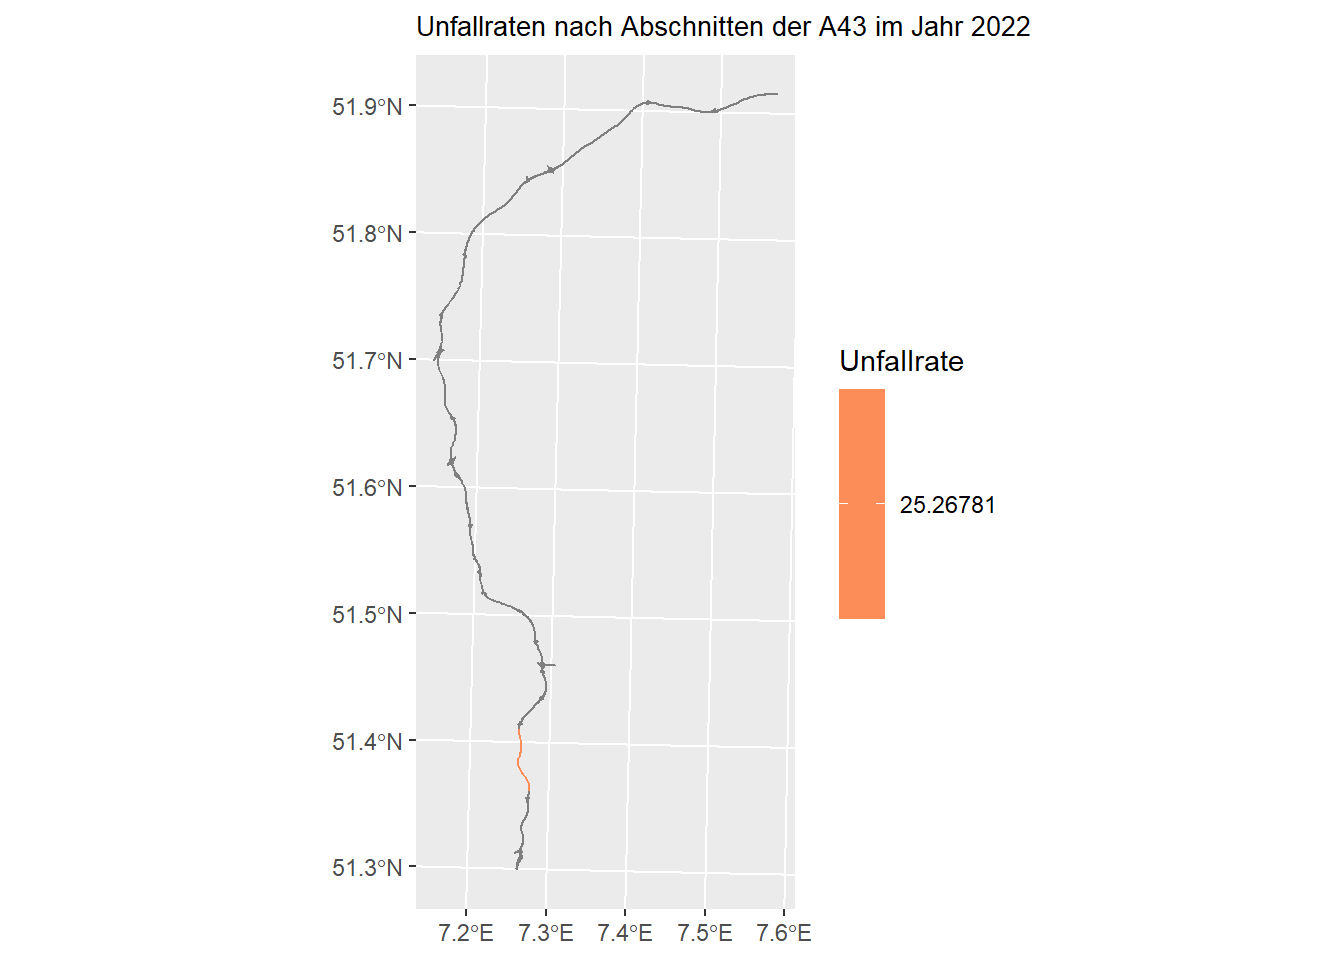
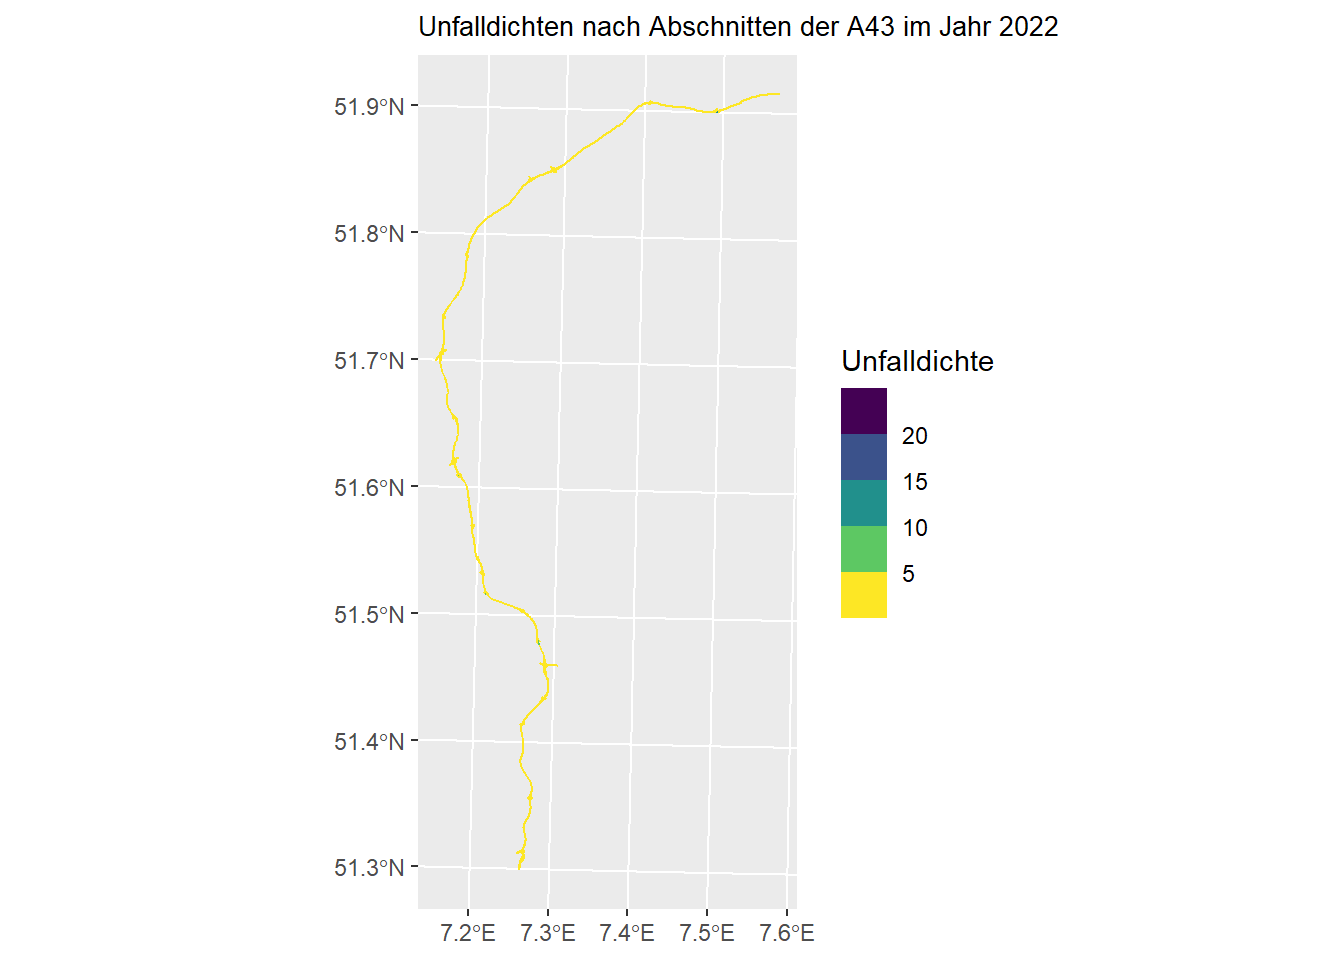
UR und UD Formel angepasst

diff --git a/output/book/sicherheitsanalyse.html b/output/book/sicherheitsanalyse.html
@@ -400,39 +400,43 @@ pre > code.sourceCode > span > a:first-child::before { text-decoration: underlin
 <span id="cb22-3"><a href="#cb22-3" aria-hidden="true" tabindex="-1"></a>    <span class="fu">select</span>(DZ_Nr, nearest_autobahn_id, DTV_Kfz_MobisSo_Q, <span class="sc">!</span>geometry)</span></code><button title="In die Zwischenablage kopieren" class="code-copy-button"><i class="bi"></i></button></pre></div>
 </div>
 <p><strong>TO-DO</strong>: Sinnhaftigkeit klären</p>
+<p><em>Variable für Anzahl der Jahre festlegen</em></p>
 <div class="cell">
-<div class="sourceCode cell-code" id="cb23"><pre class="sourceCode r code-with-copy"><code class="sourceCode r"><span id="cb23-1"><a href="#cb23-1" aria-hidden="true" tabindex="-1"></a>a43_2 <span class="ot">=</span> a43 <span class="sc">|&gt;</span> </span>
-<span id="cb23-2"><a href="#cb23-2" aria-hidden="true" tabindex="-1"></a>    <span class="fu">left_join</span>(d_Jawe_sf2, <span class="at">by =</span> <span class="fu">c</span>(<span class="st">"rownumber"</span> <span class="ot">=</span> <span class="st">"nearest_autobahn_id"</span>)) <span class="sc">|&gt;</span></span>
-<span id="cb23-3"><a href="#cb23-3" aria-hidden="true" tabindex="-1"></a>  <span class="fu">mutate</span>(<span class="at">UR =</span> (<span class="dv">10</span><span class="sc">^</span><span class="dv">6</span><span class="sc">*</span>Anzahl_U_G)<span class="sc">/</span> (DTV_Kfz_MobisSo_Q <span class="sc">*</span> Sk_Laenge_km), <span class="at">UD =</span> (Anzahl_U_G)<span class="sc">/</span>(Sk_Laenge_km))</span></code><button title="In die Zwischenablage kopieren" class="code-copy-button"><i class="bi"></i></button></pre></div>
+<div class="sourceCode cell-code" id="cb23"><pre class="sourceCode r code-with-copy"><code class="sourceCode r"><span id="cb23-1"><a href="#cb23-1" aria-hidden="true" tabindex="-1"></a>t <span class="ot">=</span> <span class="dv">1</span></span></code><button title="In die Zwischenablage kopieren" class="code-copy-button"><i class="bi"></i></button></pre></div>
+</div>
+<div class="cell">
+<div class="sourceCode cell-code" id="cb24"><pre class="sourceCode r code-with-copy"><code class="sourceCode r"><span id="cb24-1"><a href="#cb24-1" aria-hidden="true" tabindex="-1"></a>a43_2 <span class="ot">=</span> a43 <span class="sc">|&gt;</span> </span>
+<span id="cb24-2"><a href="#cb24-2" aria-hidden="true" tabindex="-1"></a>    <span class="fu">left_join</span>(d_Jawe_sf2, <span class="at">by =</span> <span class="fu">c</span>(<span class="st">"rownumber"</span> <span class="ot">=</span> <span class="st">"nearest_autobahn_id"</span>)) <span class="sc">|&gt;</span></span>
+<span id="cb24-3"><a href="#cb24-3" aria-hidden="true" tabindex="-1"></a>  <span class="fu">mutate</span>(<span class="at">UR =</span> (<span class="dv">10</span><span class="sc">^</span><span class="dv">6</span><span class="sc">*</span>Anzahl_U_G)<span class="sc">/</span> (<span class="dv">365</span><span class="sc">*</span>DTV_Kfz_MobisSo_Q <span class="sc">*</span> Sk_Laenge_km<span class="sc">*</span> t), <span class="at">UD =</span> (Anzahl_U_G)<span class="sc">/</span>(Sk_Laenge_km))</span></code><button title="In die Zwischenablage kopieren" class="code-copy-button"><i class="bi"></i></button></pre></div>
 </div>
 <p><em>Unfalldichte Plot</em></p>
 <div class="cell">
-<div class="sourceCode cell-code" id="cb24"><pre class="sourceCode r code-with-copy"><code class="sourceCode r"><span id="cb24-1"><a href="#cb24-1" aria-hidden="true" tabindex="-1"></a><span class="fu">ggplot</span> () <span class="sc">+</span></span>
-<span id="cb24-2"><a href="#cb24-2" aria-hidden="true" tabindex="-1"></a>  <span class="fu">geom_sf</span>(<span class="at">data =</span> a43_2, <span class="at">size =</span> <span class="dv">2</span>, <span class="at">mapping =</span> <span class="fu">aes</span>(<span class="at">color =</span> UD)) <span class="sc">+</span></span>
-<span id="cb24-3"><a href="#cb24-3" aria-hidden="true" tabindex="-1"></a>  <span class="fu">scale_color_viridis_b</span>(<span class="at">direction =</span> <span class="sc">-</span><span class="dv">1</span>) <span class="sc">+</span></span>
-<span id="cb24-4"><a href="#cb24-4" aria-hidden="true" tabindex="-1"></a>  <span class="fu">labs</span>(<span class="at">title =</span> <span class="st">"Unfalldichten nach Abschnitten der A43 im Jahr 2022"</span>,</span>
-<span id="cb24-5"><a href="#cb24-5" aria-hidden="true" tabindex="-1"></a>       <span class="at">color =</span> <span class="st">"Unfalldichte"</span>) <span class="sc">+</span></span>
-<span id="cb24-6"><a href="#cb24-6" aria-hidden="true" tabindex="-1"></a> <span class="fu">theme</span>(<span class="at">plot.title =</span> <span class="fu">element_text</span>(<span class="at">size=</span><span class="dv">10</span>))</span></code><button title="In die Zwischenablage kopieren" class="code-copy-button"><i class="bi"></i></button></pre></div>
+<div class="sourceCode cell-code" id="cb25"><pre class="sourceCode r code-with-copy"><code class="sourceCode r"><span id="cb25-1"><a href="#cb25-1" aria-hidden="true" tabindex="-1"></a><span class="fu">ggplot</span> () <span class="sc">+</span></span>
+<span id="cb25-2"><a href="#cb25-2" aria-hidden="true" tabindex="-1"></a>  <span class="fu">geom_sf</span>(<span class="at">data =</span> a43_2, <span class="at">size =</span> <span class="dv">2</span>, <span class="at">mapping =</span> <span class="fu">aes</span>(<span class="at">color =</span> UD)) <span class="sc">+</span></span>
+<span id="cb25-3"><a href="#cb25-3" aria-hidden="true" tabindex="-1"></a>  <span class="fu">scale_color_viridis_b</span>(<span class="at">direction =</span> <span class="sc">-</span><span class="dv">1</span>) <span class="sc">+</span></span>
+<span id="cb25-4"><a href="#cb25-4" aria-hidden="true" tabindex="-1"></a>  <span class="fu">labs</span>(<span class="at">title =</span> <span class="st">"Unfalldichten nach Abschnitten der A43 im Jahr 2022"</span>,</span>
+<span id="cb25-5"><a href="#cb25-5" aria-hidden="true" tabindex="-1"></a>       <span class="at">color =</span> <span class="st">"Unfalldichte"</span>) <span class="sc">+</span></span>
+<span id="cb25-6"><a href="#cb25-6" aria-hidden="true" tabindex="-1"></a> <span class="fu">theme</span>(<span class="at">plot.title =</span> <span class="fu">element_text</span>(<span class="at">size=</span><span class="dv">10</span>))</span></code><button title="In die Zwischenablage kopieren" class="code-copy-button"><i class="bi"></i></button></pre></div>
 <div class="cell-output-display">
 <div>
 <figure class="figure">
-<p><img src="sicherheitsanalyse_files/figure-html/unnamed-chunk-25-1.png" class="img-fluid figure-img" width="672"></p>
+<p><img src="sicherheitsanalyse_files/figure-html/unnamed-chunk-26-1.png" class="img-fluid figure-img" width="672"></p>
 </figure>
 </div>
 </div>
 </div>
 <p><em>Unfallrate Plot</em></p>
 <div class="cell">
-<div class="sourceCode cell-code" id="cb25"><pre class="sourceCode r code-with-copy"><code class="sourceCode r"><span id="cb25-1"><a href="#cb25-1" aria-hidden="true" tabindex="-1"></a><span class="fu">ggplot</span> () <span class="sc">+</span></span>
-<span id="cb25-2"><a href="#cb25-2" aria-hidden="true" tabindex="-1"></a>  <span class="fu">geom_sf</span>(<span class="at">data =</span> a43_2, <span class="at">size =</span> <span class="dv">2</span>, <span class="at">mapping =</span> <span class="fu">aes</span>(<span class="at">color =</span> UR)) <span class="sc">+</span></span>
-<span id="cb25-3"><a href="#cb25-3" aria-hidden="true" tabindex="-1"></a>  <span class="fu">scale_color_distiller</span>(<span class="at">palette =</span> <span class="dv">8</span> , <span class="at">direction =</span> <span class="dv">1</span>) <span class="sc">+</span></span>
-<span id="cb25-4"><a href="#cb25-4" aria-hidden="true" tabindex="-1"></a>  <span class="fu">labs</span>(<span class="at">title =</span> <span class="st">"Unfallraten nach Abschnitten der A43 im Jahr 2022"</span>,</span>
-<span id="cb25-5"><a href="#cb25-5" aria-hidden="true" tabindex="-1"></a>       <span class="at">color =</span> <span class="st">"Unfallrate"</span>) <span class="sc">+</span></span>
-<span id="cb25-6"><a href="#cb25-6" aria-hidden="true" tabindex="-1"></a> <span class="fu">theme</span>(<span class="at">plot.title =</span> <span class="fu">element_text</span>(<span class="at">size=</span><span class="dv">10</span>))</span></code><button title="In die Zwischenablage kopieren" class="code-copy-button"><i class="bi"></i></button></pre></div>
+<div class="sourceCode cell-code" id="cb26"><pre class="sourceCode r code-with-copy"><code class="sourceCode r"><span id="cb26-1"><a href="#cb26-1" aria-hidden="true" tabindex="-1"></a><span class="fu">ggplot</span> () <span class="sc">+</span></span>
+<span id="cb26-2"><a href="#cb26-2" aria-hidden="true" tabindex="-1"></a>  <span class="fu">geom_sf</span>(<span class="at">data =</span> a43_2, <span class="at">size =</span> <span class="dv">2</span>, <span class="at">mapping =</span> <span class="fu">aes</span>(<span class="at">color =</span> UR)) <span class="sc">+</span></span>
+<span id="cb26-3"><a href="#cb26-3" aria-hidden="true" tabindex="-1"></a>  <span class="fu">scale_color_distiller</span>(<span class="at">palette =</span> <span class="dv">8</span> , <span class="at">direction =</span> <span class="dv">1</span>) <span class="sc">+</span></span>
+<span id="cb26-4"><a href="#cb26-4" aria-hidden="true" tabindex="-1"></a>  <span class="fu">labs</span>(<span class="at">title =</span> <span class="st">"Unfallraten nach Abschnitten der A43 im Jahr 2022"</span>,</span>
+<span id="cb26-5"><a href="#cb26-5" aria-hidden="true" tabindex="-1"></a>       <span class="at">color =</span> <span class="st">"Unfallrate"</span>) <span class="sc">+</span></span>
+<span id="cb26-6"><a href="#cb26-6" aria-hidden="true" tabindex="-1"></a> <span class="fu">theme</span>(<span class="at">plot.title =</span> <span class="fu">element_text</span>(<span class="at">size=</span><span class="dv">10</span>))</span></code><button title="In die Zwischenablage kopieren" class="code-copy-button"><i class="bi"></i></button></pre></div>
 <div class="cell-output-display">
 <div>
 <figure class="figure">
-<p><img src="sicherheitsanalyse_files/figure-html/unnamed-chunk-26-1.png" class="img-fluid figure-img" width="672"></p>
+<p><img src="sicherheitsanalyse_files/figure-html/unnamed-chunk-27-1.png" class="img-fluid figure-img" width="672"></p>
 </figure>
 </div>
 </div>

diff --git a/output/book/index.html b/output/book/index.html
@@ -191,7 +191,7 @@ ul.task-list li input[type="checkbox"] {
     <div>
     <div class="quarto-title-meta-heading">Veröffentlichungsdatum</div>
     <div class="quarto-title-meta-contents">
-      <p class="date">31. Juli 2025</p>
+      <p class="date">4. August 2025</p>
     </div>
   </div>
   
